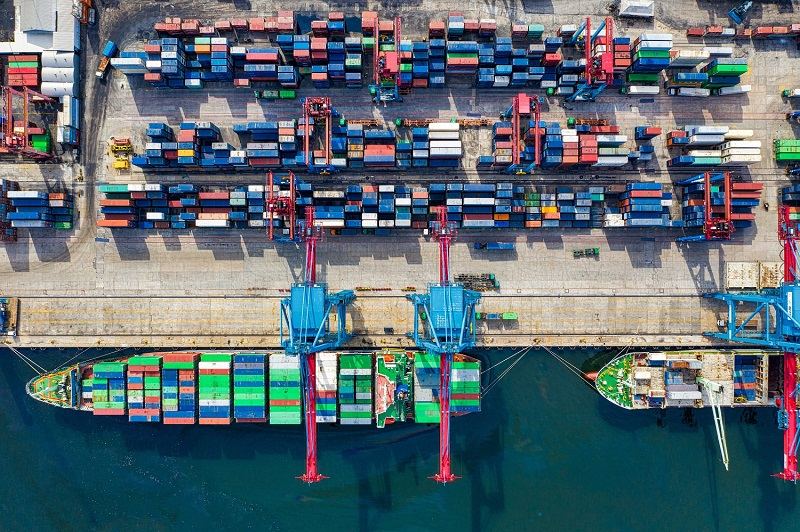
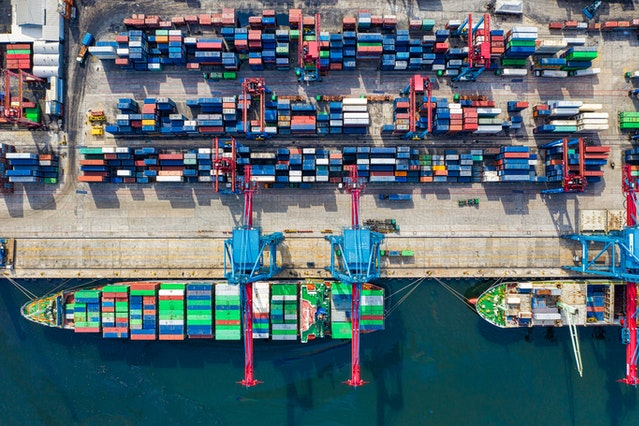
created products page

diff --git a/components/Commons/Footer/Footer.js b/components/Commons/Footer/Footer.js
@@ -1,5 +1,6 @@
 import Link from "next/link";
 import Logo from "../../Reusables/Logo/Logo";
+import products from "../../../data/products.json";
 
 const Footer = () => {
     return (
@@ -40,14 +41,15 @@ const Footer = () => {
                         <div className="footer_products">
                             <h4>Products</h4>
                             <ul>
-                                <li>
-                                    <Link href="/products/logs">Logs</Link>
-                                </li>
-                                <li>
-                                    <Link href="/products/occ">
-                                        OCC Waste Paper
-                                    </Link>
-                                </li>
+                                {products.map((product) => (
+                                    <li>
+                                        <Link
+                                            href={`/products/${product.slug}`}
+                                        >
+                                            {product.name}
+                                        </Link>
+                                    </li>
+                                ))}
                             </ul>
                         </div>
                     </div>

diff --git a/components/Home/Main/Main.js b/components/Home/Main/Main.js
@@ -4,9 +4,11 @@ const Main = () => {
     return (
         <div className="main s2">
             <div className="container">
-                <div className="main__wrapper wrapper">
+                <div className="main__wrapper wrapper grid">
+                    <div className="main__image">
+                        <img src="/images/containers.svg" />
+                    </div>
                     <div className="main__content">
-                        <h4>Welcome to YashCan</h4>
                         <h2>
                             Efficiently transporting bulk commodities and
                             finished products across continents.
@@ -14,9 +16,6 @@ const Main = () => {
                         <Link href="/">
                             <button>Learn More</button>
                         </Link>
-                    </div>
-                    <div className="main__image">
-                        <img src="/images/home.jpg" />
                     </div>
                 </div>
             </div>

diff --git a/pages/products.js b/pages/products.js
@@ -1,5 +1,23 @@
+import ProductCard from "../components/Products/ProductCard/ProductCard";
+import products from "../data/products.json";
+
 const Products = () => {
-    return <div>Products</div>;
+    return (
+        <div className="main s2">
+            <div className="container">
+                <div className="products__wrapper wrapper">
+                    {products.map(({ name, image, description, slug }) => (
+                        <ProductCard
+                            name={name}
+                            image={image}
+                            description={description}
+                            slug={slug}
+                        />
+                    ))}
+                </div>
+            </div>
+        </div>
+    );
 };
 
 export default Products;

diff --git a/styles/globals.scss b/styles/globals.scss
@@ -12,6 +12,8 @@
 @import "../components/Home/OurBusiness/ourBusiness";
 // ContactUs
 @import "../components/ContactUs/ContactDetails/contactDetails";
+// Products
+@import "../components/Products/ProductCard/productCard";
 
 html,
 body {
@@ -86,6 +88,7 @@ p {
     gap: 1rem;
     background-color: $color-bg-secondary;
     padding: 2rem;
+    box-shadow: $shadow;
 
     img {
         width: 100px;
@@ -100,6 +103,13 @@ p {
 }
 .card:nth-child(2n) {
     flex-direction: row-reverse;
+}
+
+.products__wrapper {
+    display: grid;
+    grid-template-columns: repeat(auto-fill, minmax(300px, 1fr));
+    gap: 2rem;
+    place-items: center;
 }
 
 @media screen and (min-width: 540px) {

diff --git a/components/Products/ProductCard/ProductCard.js b/components/Products/ProductCard/ProductCard.js
@@ -1,0 +1,17 @@
+import Link from "next/link";
+
+const ProductCard = ({ image, name, description, slug }) => {
+    return (
+        <Link href={`/products/${slug}`}>
+            <div className="productCard">
+                <img src={image} alt="" />
+                <div className="productCard__details">
+                    <h4>{name}</h4>
+                    <a>View details</a>
+                </div>
+            </div>
+        </Link>
+    );
+};
+
+export default ProductCard;

diff --git a/components/Home/Ceo/Ceo.js b/components/Home/Ceo/Ceo.js
@@ -2,7 +2,7 @@ import React from "react";
 
 const Ceo = () => {
     return (
-        <div className="main s1">
+        <div className="s1">
             <div className="container">
                 <div className="ceo__wrapper wrapper grid">
                     <div className="ceo__image">

diff --git a/components/Home/OurBusiness/OurBusiness.js b/components/Home/OurBusiness/OurBusiness.js
@@ -1,6 +1,6 @@
 const OurBusiness = () => {
     return (
-        <div className="main s2">
+        <div className="s2">
             <div className="container">
                 <div className="ourBusiness__wrapper wrapper grid">
                     <div className="ourBusiness__content">

diff --git a/components/Home/OurThings/OurThings.js b/components/Home/OurThings/OurThings.js
@@ -1,6 +1,6 @@
 const OurThings = () => {
     return (
-        <div className="main s1">
+        <div className="s1">
             <div className="container">
                 <div className="ourThings__wrapper wrapper grid">
                     <div className="ourThings__left">

diff --git a/components/Products/ProductCard/_productCard.scss b/components/Products/ProductCard/_productCard.scss
@@ -1,0 +1,14 @@
+.productCard {
+    max-width: 20rem;
+    background-color: $color-bg-primary;
+    cursor: pointer;
+    box-shadow: $shadow;
+
+    &__details {
+        padding: 1rem;
+
+        a {
+            color: $color-text-light;
+        }
+    }
+}

diff --git a/styles/_variables.scss b/styles/_variables.scss
@@ -5,3 +5,6 @@ $color-bg-secondary: #f7f8f9;
 $color-text-dark: #000000;
 $color-text-light: #707070;
 $color-text-lighter: #a1a1a1;
+
+$shadow: rgba(0, 0, 0, 0.1) 0px 4px 6px -1px,
+    rgba(0, 0, 0, 0.06) 0px 2px 4px -1px;

diff --git a/components/Home/Main/_main.scss b/components/Home/Main/_main.scss
@@ -1,8 +1,4 @@
-.main__wrapper {
-    display: grid;
-    grid-template-columns: repeat(auto-fit, minmax(240px, 1fr));
-    align-items: center;
-    gap: 2rem;
+.main {
 }
 
 .main__content {
